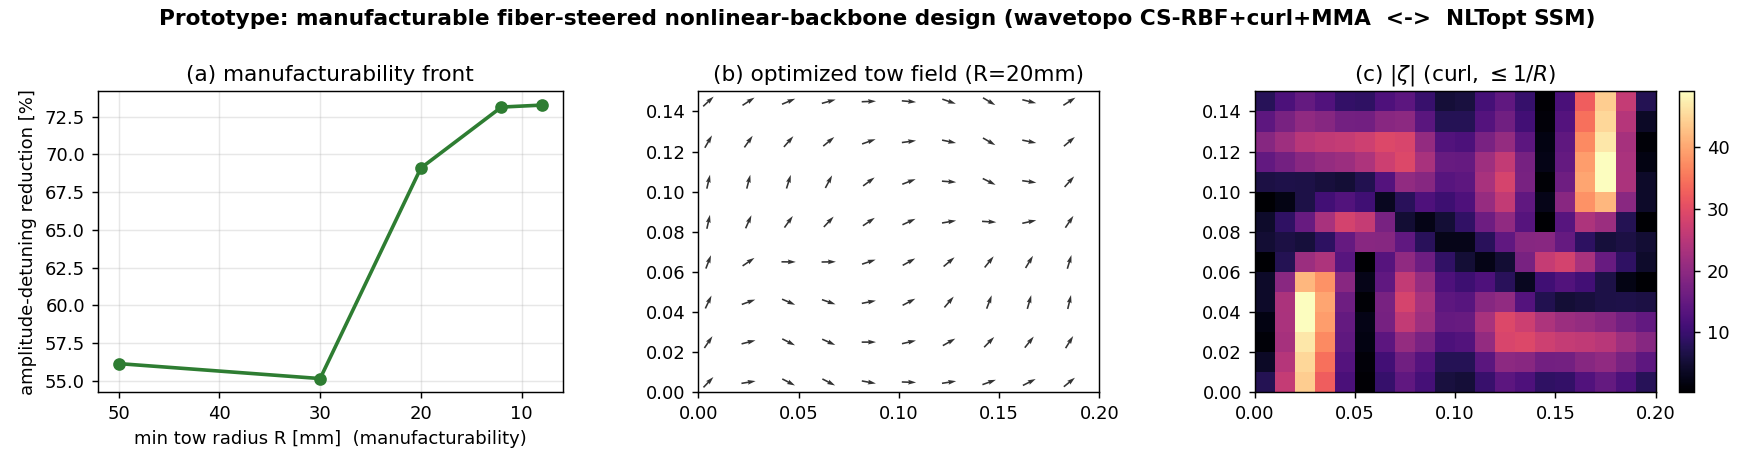
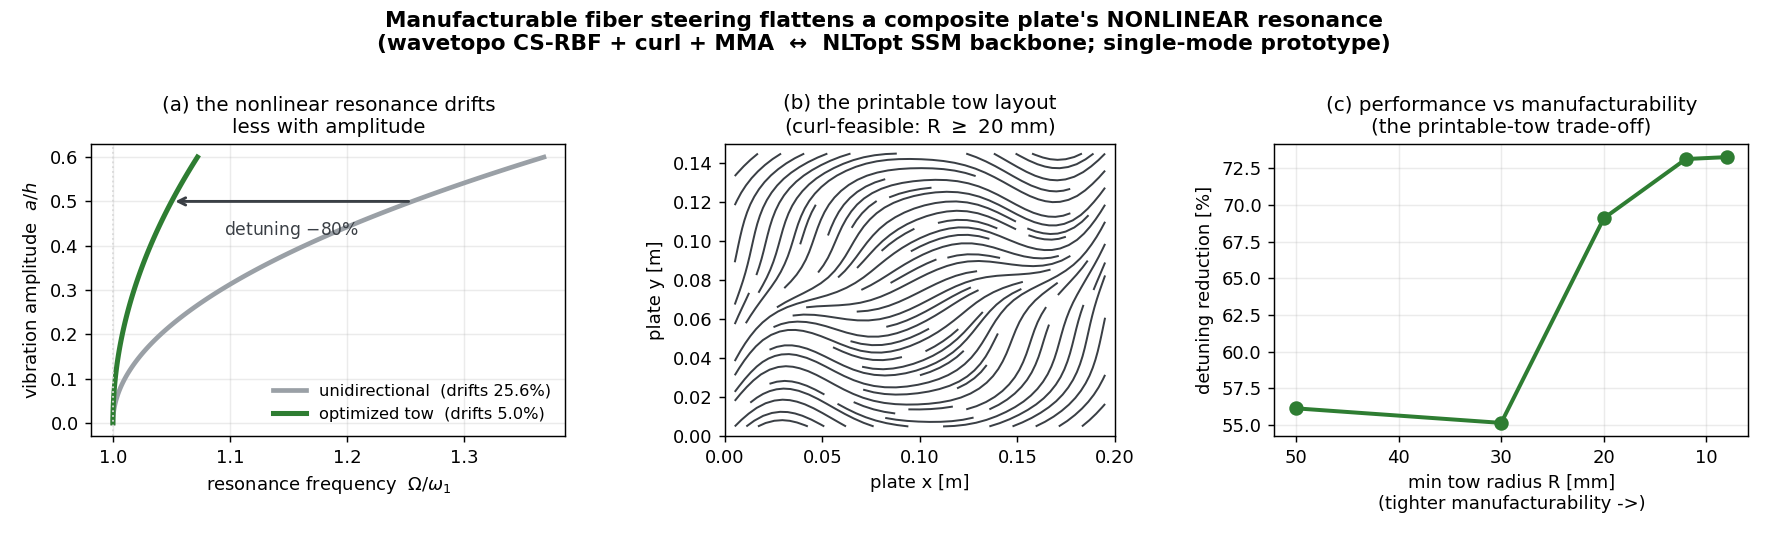
Rebuild the hero figure to show what was optimized (the backbone), legibly
The prototype figure showed mechanism (tow quiver, curl heatmap, abstract % ) but
not the optimized quantity or the point. Rebuilt so the headline is the result:

- (a) the NONLINEAR resonance itself: baseline (unidirectional) backbone drifts
  25.6% with amplitude vs 5.0% for the optimized tow -- an 80% flatter resonance,
  annotated directly. This is *what* is optimized.
- (b) the printable tow layout that achieves it, as clean streamlines (not a
  quiver), labelled with its curl-feasible minimum radius.
- (c) the performance-vs-manufacturability trade-off (the front).
Plain-language titles; a title that states the novelty. Baseline is the
unidirectional [0] layup, each backbone normalized by its own omega_1.

diff --git a/examples/plate_framework_prototype.py b/examples/plate_framework_prototype.py
@@ -168,35 +168,69 @@ def main():
     print("\nFRAMEWORK VERIFIED: wavetopo CS-RBF theta + curl + MMA/aug-Lagrangian")
     print("<-> NLTopt SSM backbone; curl-feasible designs; a manufacturability front.")
 
-    # ---- figure: front + optimized orientation field + curl map -----------
+    # ---- figure: the OPTIMIZED QUANTITY (backbone) first -------------------
     import matplotlib
     matplotlib.use("Agg")
     import matplotlib.pyplot as plt
-    theta = Phi @ th_show
-    zeta, _ = curl(th_show)
-    fig, ax = plt.subplots(1, 3, figsize=(13.5, 3.6))
-    ax[0].plot(front_R, front_red, "o-", color="#2e7d32", lw=2)
-    ax[0].set_xlabel("min tow radius R [mm]  (manufacturability)")
-    ax[0].set_ylabel("amplitude-detuning reduction [%]")
-    ax[0].set_title("(a) manufacturability front"); ax[0].grid(alpha=0.3)
-    ax[0].invert_xaxis()
-    XX = cx.reshape(mesh.nely, mesh.nelx); YY = cy.reshape(mesh.nely, mesh.nelx)
-    step = 2
-    ax[1].quiver(XX[::step, ::step], YY[::step, ::step],
-                 np.cos(theta).reshape(mesh.nely, mesh.nelx)[::step, ::step],
-                 np.sin(theta).reshape(mesh.nely, mesh.nelx)[::step, ::step],
-                 pivot="mid", scale=28, width=0.004, color="#333")
-    ax[1].set_aspect("equal"); ax[1].set_title("(b) optimized tow field (R=20mm)")
-    ax[1].set_xlim(0, A); ax[1].set_ylim(0, B)
-    pc = ax[2].pcolormesh(XX, YY, np.abs(zeta).reshape(mesh.nely, mesh.nelx),
-                          cmap="magma", shading="auto")
-    ax[2].set_aspect("equal"); ax[2].set_title(r"(c) $|\zeta|$ (curl, $\leq 1/R$)")
-    plt.colorbar(pc, ax=ax[2], fraction=0.046)
-    fig.suptitle("Prototype: manufacturable fiber-steered nonlinear-backbone design "
-                 "(wavetopo CS-RBF+curl+MMA  <->  NLTopt SSM)", fontweight="bold")
-    fig.tight_layout()
+
+    def backbone_curve(theta_hat):
+        """Omega/omega1 vs mid-plate amplitude a/h for a design."""
+        _, Kb, knl, _ = objective(theta_hat)
+        bc, w1 = backbone_coeff_ssm(Kb, knl)              # dOmega/da^2, omega1
+        aa = np.linspace(0.0, 0.6 * H, 120)
+        return 1.0 + bc * aa ** 2 / w1, aa / H            # Omega/omega1, a/h
+
+    th_base = np.zeros(M)                                 # unidirectional [0] baseline
+    o_b, a_b = backbone_curve(th_base)
+    o_o, a_o = backbone_curve(th_show)
+    # amplitude detuning at a/h = 0.5 (how far the resonance moves)
+    d_b = 100 * (np.interp(0.5, a_b, o_b) - 1.0)
+    d_o = 100 * (np.interp(0.5, a_o, o_o) - 1.0)
+
+    GREY, GREEN, INK = "#9aa0a6", "#2e7d32", "#3a3f45"
+    fig, ax = plt.subplots(1, 3, figsize=(13.6, 4.1))
+
+    # (a) THE POINT: the resonance drifts less with amplitude
+    ax[0].plot(o_b, a_b, color=GREY, lw=2.6, label=f"unidirectional  (drifts {d_b:.1f}%)")
+    ax[0].plot(o_o, a_o, color=GREEN, lw=2.8, label=f"optimized tow  (drifts {d_o:.1f}%)")
+    ax[0].axvline(1.0, color="0.85", lw=1, ls=":")
+    xb, xo = np.interp(0.5, a_b, o_b), np.interp(0.5, a_o, o_o)
+    ax[0].annotate("", xy=(xo, 0.5), xytext=(xb, 0.5),
+                   arrowprops=dict(arrowstyle="->", color=INK, lw=1.6))
+    ax[0].text(0.5*(xo+xb), 0.46, f"detuning $-{100*(1-d_o/d_b):.0f}\\%$",
+               ha="center", va="top", fontsize=9.5, color=INK)
+    ax[0].set_xlabel(r"resonance frequency  $\Omega/\omega_1$")
+    ax[0].set_ylabel(r"vibration amplitude  $a/h$")
+    ax[0].set_title("(a) the nonlinear resonance drifts\nless with amplitude", fontsize=11)
+    ax[0].legend(frameon=False, fontsize=9, loc="lower right"); ax[0].grid(alpha=0.25)
+
+    # (b) the printable tow layout that does it
+    x1 = cx.reshape(mesh.nely, mesh.nelx)[0, :]
+    y1 = cy.reshape(mesh.nely, mesh.nelx)[:, 0]
+    th_g = (Phi @ th_show).reshape(mesh.nely, mesh.nelx)
+    ax[1].streamplot(x1, y1, np.cos(th_g), np.sin(th_g), density=1.1,
+                     color=INK, linewidth=1.1, arrowsize=0)
+    ax[1].set_aspect("equal"); ax[1].set_xlim(0, A); ax[1].set_ylim(0, B)
+    ax[1].set_xlabel("plate x [m]"); ax[1].set_ylabel("plate y [m]")
+    zmax = np.max(np.abs(curl(th_show)[0]))
+    ax[1].set_title(f"(b) the printable tow layout\n(curl-feasible: R $\\geq$ {1000/zmax:.0f} mm)",
+                    fontsize=11)
+
+    # (c) the manufacturability trade-off
+    ax[2].plot(front_R, front_red, "o-", color=GREEN, lw=2.2, ms=7)
+    ax[2].set_xlabel("min tow radius R [mm]\n(tighter manufacturability ->)")
+    ax[2].set_ylabel("detuning reduction [%]")
+    ax[2].set_title("(c) performance vs manufacturability\n(the printable-tow trade-off)",
+                    fontsize=11)
+    ax[2].invert_xaxis(); ax[2].grid(alpha=0.25)
+
+    fig.suptitle("Manufacturable fiber steering flattens a composite plate's NONLINEAR "
+                 "resonance\n(wavetopo CS-RBF + curl + MMA  ↔  NLTopt SSM backbone; "
+                 "single-mode prototype)", fontweight="bold", fontsize=12)
+    fig.tight_layout(rect=[0, 0, 1, 0.99])
     fig.savefig("figs/plate_framework_prototype.png", dpi=130)
-    print("wrote plate_framework_prototype.png")
+    print(f"baseline drift {d_b:.2f}% -> optimized {d_o:.2f}%  (-{100*(1-d_o/d_b):.0f}%)")
+    print("wrote figs/plate_framework_prototype.png")
 
 
 if __name__ == "__main__":
